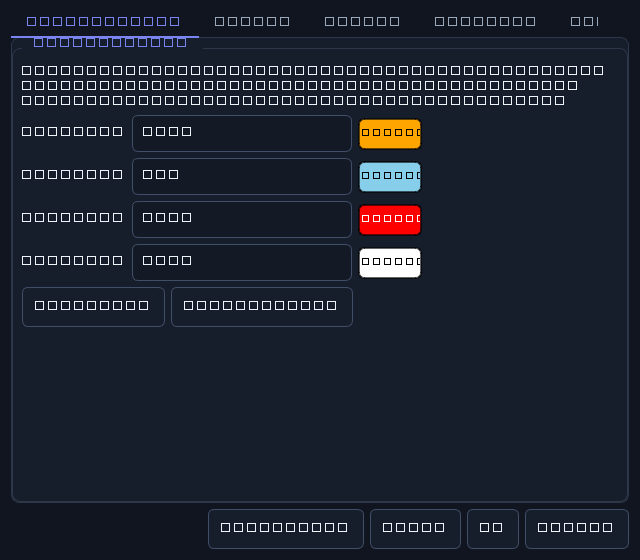
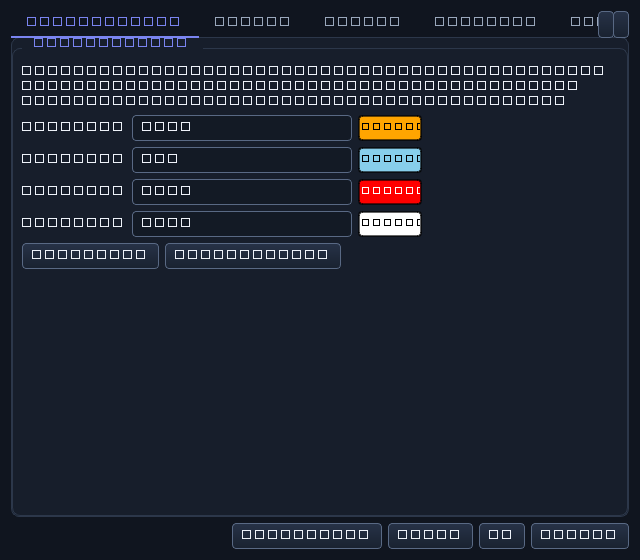
fix(gui): refresh state views and compact controls

diff --git a/src/misleep/gui/main_window.py b/src/misleep/gui/main_window.py
@@ -65,6 +65,7 @@ from misleep.io import available_readers, available_writers, load_signal
 from misleep.logger import logger
 from misleep.preprocessing.spectral import band_power, spectrogram, spectrum
 from misleep.utils.annotation import lst2group
+from misleep.viz.spectral import spectrogram_color_limits
 
 
 def _text_on(color_hex: str) -> str:
@@ -1122,6 +1123,7 @@ class MainWindow(QMainWindow, Ui_MiSleep):
             cmap = plt.get_cmap(cmap_name)
         except ValueError:
             cmap = plt.get_cmap("jet")
+        vmin, vmax = spectrogram_color_limits(Sxx, self.spectrogram_percentile)
 
         self.signal_ax[0].set_xticks([])
         # Pin the horizontal extent explicitly: with reused axes the
@@ -1130,8 +1132,11 @@ class MainWindow(QMainWindow, Ui_MiSleep):
         self.signal_ax[0].set_xlim(t.min(), t.max())
         self.signal_ax[0].set_ylim(freq_range)
         self.signal_ax[0].set_ylabel(f"{self.midata.channels[ch]}")
+        # Match v2's dark low-power background even in the light theme and
+        # eliminate axes-color seams around the pcolormesh.
+        self.signal_ax[0].set_facecolor(cmap(0.0))
         self._spec_artist = self.signal_ax[0].pcolormesh(
-            t, f, Sxx, cmap=cmap, vmax=np.percentile(Sxx, self.spectrogram_percentile))
+            t, f, Sxx, cmap=cmap, vmin=vmin, vmax=vmax, shading="auto")
 
         if flush:
             self.signal_figure.canvas.draw()
@@ -1271,7 +1276,12 @@ class MainWindow(QMainWindow, Ui_MiSleep):
         # rebuild it lazily and reuse it across page flips.
         key = None
         if self.mianno is not None:
-            key = (id(self.mianno), hash(tuple(self.mianno.sleep_state)))
+            key = (
+                id(self.mianno),
+                hash(tuple(self.mianno.sleep_state)),
+                tuple(sorted(self.state_map_dict.items())),
+                tuple(sorted(self.state_color_dict.items())),
+            )
         if key != self._hypo_key:
             self.hypo_ax.clear()
             self._hypo_transient = []
@@ -1496,9 +1506,10 @@ class MainWindow(QMainWindow, Ui_MiSleep):
             fg = _text_on(color)
             bt.setStyleSheet(
                 f"QPushButton {{ background-color: {color}; color: {fg};"
-                f" border: 1px solid {color}; border-radius: 0px;"
-                f" padding: 3px 8px; min-height: 22px; font-weight: 600; }}"
-                f" QPushButton:hover {{ border-color: rgba(255,255,255,140); }}"
+                f" border: 1px solid rgba(0,0,0,150); border-radius: 3px;"
+                f" padding: 2px 7px; min-height: 19px; max-height: 22px;"
+                f" font-weight: 600; }}"
+                f" QPushButton:hover {{ border: 1px solid rgba(255,255,255,190); }}"
                 f" QPushButton:pressed {{ background-color: {color}; }}"
                 f" QPushButton:disabled {{ color: rgba(255,255,255,120);"
                 f" border-color: rgba(255,255,255,60); }}")
@@ -2294,6 +2305,14 @@ class MainWindow(QMainWindow, Ui_MiSleep):
         # Update the annotation state map if one is loaded
         if isinstance(self.mianno, MiAnnotation):
             self.mianno._state_map = self.state_map_dict
+
+        # State names/colors are part of the hypnogram itself. Force a base
+        # rebuild now instead of waiting for the next annotation edit.
+        self._hypo_key = None
+        self._hypo_steps = []
+        self._hypo_transient = []
+        # Frequency range changes also invalidate the cached whole-file STFT.
+        self._spec_full_cache = {}
 
         # Redraw with the new colors / frequency range (skip before data loads)
         if self.midata is not None and self.mianno is not None:

diff --git a/src/misleep/gui/style.py b/src/misleep/gui/style.py
@@ -49,7 +49,9 @@ THEMES = {
         "disabled_bg": "#eef1f6",
         # lines
         "border": "#c9d3e1",
-        "border_strong": "#a9b6c9",
+        "border_strong": "#8796aa",
+        "button_top": "#ffffff",
+        "button_bottom": "#e4eaf2",
         # text
         "text": "#141d2b",
         "text_secondary": "#4a5a70",
@@ -94,7 +96,9 @@ THEMES = {
         "disabled_bg": "#171e2b",
         # lines
         "border": "#2c374a",
-        "border_strong": "#414e68",
+        "border_strong": "#596984",
+        "button_top": "#273247",
+        "button_bottom": "#192230",
         # text
         "text": "#eef2f9",
         "text_secondary": "#9aa8bc",
@@ -232,10 +236,11 @@ QToolBar::separator {
     margin: 5px 8px;
 }
 QToolButton {
-    background: transparent;
-    border: 1px solid transparent;
-    border-radius: 6px;
-    padding: 4px 8px;
+    background: qlineargradient(x1:0, y1:0, x2:0, y2:1,
+                                stop:0 $button_top, stop:1 $button_bottom);
+    border: 1px solid $border_strong;
+    border-radius: 4px;
+    padding: 3px 8px;
     color: $text;
 }
 QToolButton:hover {
@@ -251,12 +256,14 @@ QToolButton:disabled {
 
 /* ---------------- buttons ---------------- */
 QPushButton {
-    background-color: $surface;
+    background: qlineargradient(x1:0, y1:0, x2:0, y2:1,
+                                stop:0 $button_top, stop:1 $button_bottom);
     border: 1px solid $border_strong;
-    border-radius: 6px;
-    padding: 5px 12px;
+    border-radius: 4px;
+    padding: 2px 9px;
     color: $text;
-    min-height: 28px;
+    min-height: 20px;
+    max-height: 24px;
 }
 QPushButton:hover {
     background-color: $surface_alt;
@@ -346,12 +353,16 @@ QComboBox, QSpinBox, QDoubleSpinBox, QLineEdit, QDateTimeEdit,
 QTimeEdit, QDateEdit, QPlainTextEdit, QTextEdit {
     background-color: $input;
     border: 1px solid $border_strong;
-    border-radius: 6px;
-    padding: 4px 8px;
-    min-height: 27px;
+    border-radius: 4px;
+    padding: 2px 7px;
     selection-background-color: $accent;
     selection-color: #ffffff;
     color: $text;
+}
+QComboBox, QSpinBox, QDoubleSpinBox, QLineEdit, QDateTimeEdit,
+QTimeEdit, QDateEdit {
+    min-height: 20px;
+    max-height: 24px;
 }
 QComboBox:focus, QSpinBox:focus, QDoubleSpinBox:focus, QLineEdit:focus,
 QDateTimeEdit:focus, QTimeEdit:focus, QDateEdit:focus,

diff --git a/src/misleep/viz/spectral.py b/src/misleep/viz/spectral.py
@@ -5,6 +5,25 @@ import matplotlib.pyplot as plt
 import numpy as np
 
 
+def spectrogram_color_limits(Sxx, percentile=99.7):
+    """Return a stable v2-style power color range for a spectrogram.
+
+    Spectrogram power is non-negative. Anchoring the lower limit at zero and
+    clipping only the brightest tail at ``percentile`` keeps the low-power
+    background dark and the EEG bands easy to distinguish.
+    """
+    if not isinstance(percentile, (int, float)) or not 0 < percentile <= 100:
+        raise ValueError("'percentile' must be greater than 0 and at most 100")
+    values = np.asarray(Sxx)
+    finite = values[np.isfinite(values)]
+    if finite.size == 0:
+        return 0.0, 1.0
+    vmax = float(np.percentile(finite, percentile))
+    if vmax <= 0:
+        vmax = float(np.max(finite)) if np.max(finite) > 0 else 1.0
+    return 0.0, vmax
+
+
 def plot_spectrum(f, p):
     """Plot a power spectrum.
 
@@ -59,16 +78,20 @@ def plot_spectrogram(f, t, Sxx, percentile=100, band=None, color_bar=False):
         raise TypeError(f"'percentile' should be a float between 0~100, got {percentile}")
 
     cmap = plt.get_cmap("jet")
+    vmin, vmax = spectrogram_color_limits(Sxx, percentile)
     fig = plt.figure(figsize=(15, 4))
     ax = fig.subplots(nrows=1, ncols=1)
     if band is not None:
         ax.set_ylim(band[0], band[1])
 
     if color_bar:
-        pcm = ax.pcolormesh(t, f, Sxx, cmap=cmap, vmax=np.percentile(Sxx, percentile))
+        pcm = ax.pcolormesh(t, f, Sxx, cmap=cmap, vmin=vmin, vmax=vmax,
+                            shading="auto")
         fig.colorbar(pcm, ax=ax)
     else:
-        ax.pcolormesh(t, f, Sxx, cmap=cmap, vmax=np.percentile(Sxx, percentile))
+        ax.pcolormesh(t, f, Sxx, cmap=cmap, vmin=vmin, vmax=vmax,
+                      shading="auto")
+    ax.set_facecolor(cmap(0.0))
     ax.set_xlabel("Time (S)")
     ax.set_ylabel("Frequency (HZ)")
 

diff --git a/tests/test_gui.py b/tests/test_gui.py
@@ -523,7 +523,12 @@ def test_gui_state_buttons_and_shortcuts(monkeypatch, tmp_path):
         dialog._add_state()
     assert len(dialog._state_rows) == 10
     dialog._ok()
+    app.processEvents()
     assert len(window._state_btns) == 10 and 10 in window._state_btns
+    # Settings -> Apply/OK must rebuild the hypnogram immediately, before
+    # any new label is drawn.
+    tick_labels = [label.get_text() for label in window.hypo_ax.get_yticklabels()]
+    assert "State 10" in tick_labels
 
     window.start_end = [20, 30]
     ev0 = QKeyEvent(QKeyEvent.Type.KeyPress, Qt.Key.Key_0,
@@ -531,6 +536,30 @@ def test_gui_state_buttons_and_shortcuts(monkeypatch, tmp_path):
     window.keyPressEvent(ev0)
     assert window.mianno.sleep_state[25] == 10
 
+    window.is_saved = True
+    window.close()
+
+
+@pytest.mark.skipif(not _pyside6_available(), reason="PySide6 not installed")
+def test_compact_control_geometry():
+    """Main-window and dialog controls stay compact under the app theme."""
+    from PySide6.QtWidgets import QApplication, QPushButton
+
+    app = QApplication.instance() or QApplication([])
+    from misleep.gui.config_dialog import SettingsDialog
+    from misleep.gui.main_window import MainWindow
+
+    window = MainWindow()
+    dialog = SettingsDialog(window)
+    window.show()
+    dialog.show()
+    app.processEvents()
+
+    assert window.SaveLabelBt.height() <= 32
+    assert window.FilterLowSpin.height() <= 32
+    assert dialog.findChildren(QPushButton)[0].height() <= 32
+
+    dialog.close()
     window.is_saved = True
     window.close()
 

diff --git a/src/misleep/gui/spec_window.py b/src/misleep/gui/spec_window.py
@@ -7,6 +7,7 @@ from matplotlib.backends.backend_qtagg import FigureCanvasQTAgg as FigureCanvas
 from PySide6.QtWidgets import QFileDialog, QMainWindow, QMessageBox
 
 from misleep.gui.uis.spec_window_ui import Ui_spec_window
+from misleep.viz.spectral import spectrogram_color_limits
 
 
 class SpecWindow(QMainWindow, Ui_spec_window):
@@ -89,8 +90,10 @@ class SpecWindow(QMainWindow, Ui_spec_window):
             cmap = plt.get_cmap(cmap_name)
         except ValueError:
             cmap = plt.get_cmap("jet")
+        vmin, vmax = spectrogram_color_limits(Sxx, percentile_)
+        self.spectrogram_ax.set_facecolor(cmap(0.0))
         pcm = self.spectrogram_ax.pcolormesh(
-            t, f, Sxx, cmap=cmap, vmax=np.percentile(Sxx, percentile_))
+            t, f, Sxx, cmap=cmap, vmin=vmin, vmax=vmax, shading="auto")
         self.spectrogram_figure.colorbar(pcm, ax=self.spectrogram_ax)
         self.spectrogram_ax.set_xlabel("Time (s)")
         self.spectrogram_ax.set_ylabel("Frequency (Hz)")

diff --git a/src/misleep/gui/config_dialog.py b/src/misleep/gui/config_dialog.py
@@ -50,7 +50,7 @@ class ColorButton(QPushButton):
         super().__init__(parent)
         self._color = QColor(color)
         self.setCursor(Qt.PointingHandCursor)
-        self.setFixedSize(64, 30)
+        self.setFixedSize(64, 26)
         self.setToolTip("Click to choose a color")
         self.set_color(self._color)
         self.clicked.connect(self._pick)
@@ -71,7 +71,7 @@ class ColorButton(QPushButton):
                 background-color: {self._color.name()};
                 color: {_contrast_text(self._color)};
                 border: 2px solid rgba(0, 0, 0, 60%);
-                border-radius: 6px;
+                border-radius: 4px;
                 font-size: 8pt;
                 font-weight: bold;
                 padding: 0px;

diff --git a/tests/test_viz_config.py b/tests/test_viz_config.py
@@ -35,6 +35,9 @@ def test_plot_spectrogram():
     t = np.linspace(0, 10, 50)
     Sxx = np.random.default_rng(0).random((40, 50))
     fig, ax = plot_spectrogram(f, t, Sxx, percentile=95, band=[0.5, 30], color_bar=True)
+    mesh = ax.collections[0]
+    assert mesh.get_clim()[0] == 0.0
+    assert np.isclose(mesh.get_clim()[1], np.percentile(Sxx, 95))
     import matplotlib.pyplot as plt
 
     plt.close(fig)

diff --git a/CHANGELOG.md b/CHANGELOG.md
@@ -9,6 +9,16 @@ and this project adheres to [Semantic Versioning](https://semver.org/spec/v2.0.0
 
 ### Changed
 
+- **Spectrogram clarity**: restored v2-style 5 s / 1 s normalized power
+  rendering with a stable zero-to-percentile color range and a colormap-low
+  background, preventing theme-colored gaps from washing out the display.
+- **Immediate state refresh**: applying sleep-state names/colors now
+  invalidates and rebuilds the hypnogram immediately; cached spectrograms are
+  also refreshed when spectral settings change.
+- **Compact classical controls**: buttons and single-line editors now have
+  bounded heights, tighter padding, stronger borders and subtle vertical
+  shading across the main window and dialogs.
+
 - **File formats**: added pickle-free NumPy NPY/NPZ, CSV/TSV signal input,
   NPZ output, BDF input, and JSON/CSV/TSV annotation input. The GUI now
   uses the extension registry, so built-in and third-party readers appear
